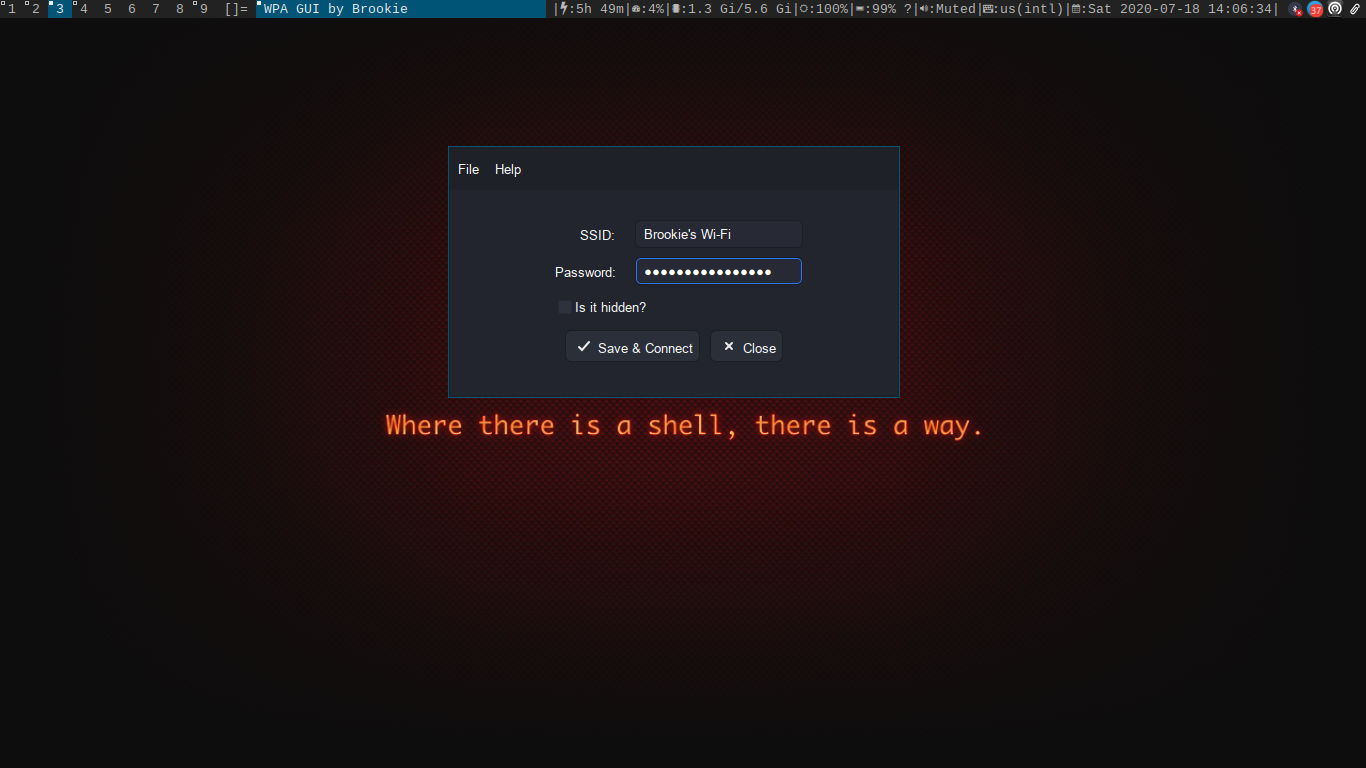
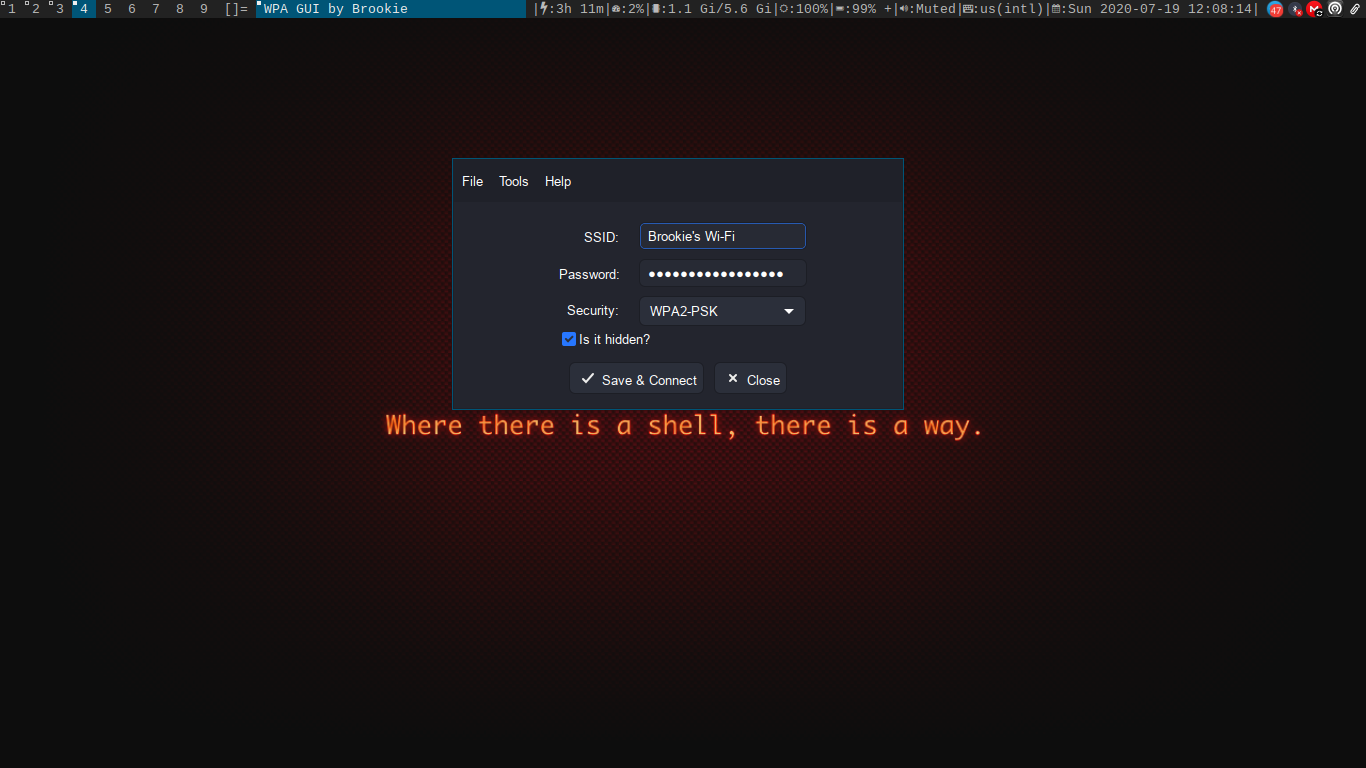
Update 1.2: Some features have been added.
Support to connect to WEP Wi-Fi networks has been added. An item to clear the fields has been added and some popup texts when you put the cursor on the elements. E.g on the SSID field have been added. And some changes in the code.

Changed region(s): [[0.3075, 0.1875, 0.6764, 0.5312], [0.369, 0.0, 0.9839, 0.0312], [0.0307, 0.0, 0.0922, 0.0312]]

diff --git a/src/save_and_connect.c b/src/save_and_connect.c
@@ -18,18 +18,41 @@
 
 #include "save_and_connect.h"
 
+static gchar *title, *message;
+
 static int
 check_wpa_supplicant(void)
 {
-        int state       = system("which wpa_supplicant > /dev/null 2>&1");
+        char *command   = "which wpa_supplicant > /dev/null 2>&1";
+        int state       = system(command);
         return state;
 }
 
 static int
 restart_service(void)
 {
-        int state       = system("/etc/init.d/wpa_supplicant restart > /dev/null 2>&1");
+        char *command   = "/etc/init.d/wpa_supplicant restart > /dev/null 2>&1";
+        int state       = system(command);
         return state;
+}
+
+static gboolean
+verify_protocol_and_password_length(const gchar *security,
+const gchar *password)
+{
+        gboolean is_there_an_error = FALSE;
+
+        if (security == NULL) {
+                title             = "Unselected protocol";
+                message           = "The security protocol has not been chosen.";
+                is_there_an_error = TRUE;
+        } else if (strlen(password) < 8 && strncmp(security, "Open", 4)) {
+                title             = "Short password";
+                message           = "The given password is so short.";
+                is_there_an_error = TRUE;
+        }
+
+        return is_there_an_error;
 }
 
 gint
@@ -37,12 +60,12 @@ save_and_connect(GtkWidget *parent)
 {
         GtkMessageType mtype    = GTK_MESSAGE_WARNING;
         GtkButtonsType btype    = GTK_BUTTONS_OK;
-        gchar *title, *message;
 
         if (check_wpa_supplicant()) {
                 title           = "Warning";
                 message         = "The WPA Supplicant binary has not been found in your system.";
-                return show_message(GTK_WINDOW(parent), mtype, btype, title, message);
+                return show_message(GTK_WINDOW(parent), mtype, btype,
+                                title, message);
         }
 
         const gchar *ssid       = gtk_entry_buffer_get_text(ssid_buffer);
@@ -50,68 +73,61 @@ save_and_connect(GtkWidget *parent)
         const gchar *security   = gtk_combo_box_text_get_active_text(GTK_COMBO_BOX_TEXT(security_combo));
         const gchar *wpa_file   = "/etc/wpa_supplicant/wpa_supplicant.conf";
         gchar scan_ssid;
-        gboolean is_there_an_error = FALSE;
 
-        if (security == NULL) {
-                title           = "Unselected protocol";
-                message         = "The security protocol has not been chosen.";
-                is_there_an_error = TRUE;
-        } else if (strlen(password) < 8 && strncmp(security, "Open", 4)) {
-                title           = "Short password";
-                message         = "The given password is so short.";
-                is_there_an_error = TRUE;
-        }
-
-        if (is_there_an_error) {
-                return show_message(GTK_WINDOW(parent), mtype, btype, title, message);
+        if (verify_protocol_and_password_length(security, password)) {
+                return show_message(GTK_WINDOW(parent), mtype, btype,
+                                title, message);
         }
 
         scan_ssid = gtk_toggle_button_get_active(GTK_TOGGLE_BUTTON(hidden_check)) ? '1' : '0';
 
         FILE *fp;
         gchar *hashed_pass;
+        size_t content_len = 254;
+        gchar *content = (gchar *) malloc(content_len + 1);
 
-        if (strncmp(security, "Open", 4)) {
+        if (strncmp(security, "WPA2-PSK", 8) == 0) {
                 size_t hashed_pass_len  = 80;
                 size_t command_len      = 16 + strlen(ssid) + 2 + strlen(password) + 26;
 
-                hashed_pass      = (gchar *) malloc(hashed_pass_len);
-                gchar *command   = (gchar *) malloc(command_len + 1);
+                hashed_pass     = (gchar *) malloc(hashed_pass_len);
+                gchar *command  = (gchar *) malloc(command_len + 1);
 
-                snprintf(command, command_len, "wpa_passphrase \"%s\" \"%s\" | grep psk | tail -n 1", ssid, password);
-                fp                = popen(command, "r");
+                snprintf(command, command_len,
+                        "wpa_passphrase \"%s\" \"%s\" | grep psk | tail -n 1",
+                        ssid, password);
 
+                fp              = popen(command, "r");
                 hashed_pass     = fgets(hashed_pass, hashed_pass_len, fp);
-                hashed_pass[hashed_pass_len - 2] = '\0'; /* Deleting the '\n' character. */
-
-                free(command);
-                pclose(fp);
-        }
-
-        size_t content_len = 254;
-        gchar *content         = (gchar *) malloc(content_len + 1);
-
-        if (strncmp(security, "WPA2-PSK", 7) == 0) {
 
                 snprintf(content, 1 + content_len, "\nnetwork={\n\
 \tssid=\"%s\"\n\
 \tscan_ssid=%c\n\
 %s\
 \tpriority=5\n\
-}", ssid, scan_ssid, hashed_pass);
+}\n", ssid, scan_ssid, hashed_pass);
 
-        free(hashed_pass);
+                free(hashed_pass);
+                free(command);
+                pclose(fp);
+        /* end if */
+        } else if (strncmp(security, "WEP", 3) == 0) {
 
-        /* endif */
+                snprintf(content, 1 + content_len, "\nnetwork={\n\
+\tssid=\"%s\"\n\
+\tscan_ssid=%c\n\
+\twep_key0=\"%s\"\n\
+\twep_tx_keyidx=0\n\
+\tpriority=5\n\
+}\n", ssid, scan_ssid, password);
+        /* end else if */
         } else {
-
                 snprintf(content, 1 + content_len, "\nnetwork={\n\
 \tssid=\"%s\"\n\
 \tscan_ssid=%c\n\
 \tkey_mgmt=NONE\n\
 \tpriority=5\n\
-}", ssid, scan_ssid);
-
+}\n", ssid, scan_ssid);
         /* end else */
         }
 
@@ -121,13 +137,15 @@ save_and_connect(GtkWidget *parent)
         fclose(fp);
         free(content);
 
-        mtype   = GTK_MESSAGE_QUESTION;
-        btype   = GTK_BUTTONS_YES_NO;
-        title   = "Congratulation";
-        message = "The network has been added successfully!\n\
+        mtype     = GTK_MESSAGE_QUESTION;
+        btype     = GTK_BUTTONS_YES_NO;
+        title     = "Congratulation";
+        message   = "The network has been added successfully!\n\
 Would you like to restart the WPA Supplicant service?";
 
-        gint response   = show_message(GTK_WINDOW(parent), mtype, btype, title, message);
+        gint response   = show_message(GTK_WINDOW(parent), mtype, btype,
+                        title, message);
+
         if (response == GTK_RESPONSE_YES) {
                 btype   = GTK_BUTTONS_OK;
                 int state       = restart_service();

diff --git a/src/clear_fields.c b/src/clear_fields.c
@@ -1,0 +1,59 @@
+/*
+* Copyright (C) 19aa <Lord Brookie>
+* This program is free software. You can redistribute it and/or
+* modify it under the terms of the General Public License
+* GNU as published by the Free Software Foundation,
+* either version 2 of said License or --according to its
+* choice-- of any later version.
+* This program is distributed in the hope that it will be
+* useful, but WITHOUT ANY WARRANTY, even without warranty
+* MERCANTIL implicit or without guaranteeing CONVENIENCE FOR A
+* PARTICULAR PURPOSE. For more details, see the License
+* GNU General Public.
+* You should have received a copy of the Public License
+* General along with this program. Otherwise, write
+* to the Free Software Foundation, Inc., at 675 Mass Ave,
+* Cambridge, MA 02139, USA.
+*/
+
+#include "clear_fields.h"
+
+gint
+clear_fields(GtkWidget *parent)
+{
+        int c                   = 0;
+        const gchar *ssid       = gtk_entry_buffer_get_text(ssid_buffer);
+        const gchar *password   = gtk_entry_buffer_get_text(password_buffer);
+        const gchar *security   = gtk_combo_box_text_get_active_text(GTK_COMBO_BOX_TEXT(security_combo));
+
+        if (strlen(ssid) > 0) {
+                gtk_entry_buffer_set_text(ssid_buffer, "", -1);
+                c++;
+        }
+
+        if (strlen(password) > 0) {
+                gtk_entry_buffer_set_text(password_buffer, "", -1);
+                c++;
+        }
+
+        if (security != NULL) {
+                gtk_combo_box_set_active(GTK_COMBO_BOX(security_combo), -1);
+                c++;
+        }
+
+        if (gtk_toggle_button_get_active(GTK_TOGGLE_BUTTON(hidden_check))) {
+                gtk_toggle_button_set_active(GTK_TOGGLE_BUTTON(hidden_check), FALSE);
+                c++;
+        }
+
+        if (c == 0) {
+                GtkMessageType mtype    = GTK_MESSAGE_WARNING;
+                GtkButtonsType btype    = GTK_BUTTONS_OK;
+                gchar *title            = "Warning";
+                gchar *message          = "There's nothing to do.";
+                return show_message(GTK_WINDOW(parent), mtype, btype,
+                        title, message);
+        }
+
+        return 0;
+}

diff --git a/src/main.c b/src/main.c
@@ -41,7 +41,7 @@ main(int argc, char *argv[])
 
         GtkBuilder *builder;
         GtkWidget *window;
-        GtkWidget *quit_item, *help_item, *about_item;
+        GtkWidget *quit_item, *clear_item, *help_item, *about_item;
         GtkWidget *ssid_entry, *password_entry;
         GtkWidget *save_button, *leave_button;
         gchar *ui       = "resources/ui.glade";
@@ -60,6 +60,7 @@ main(int argc, char *argv[])
         window          = GTK_WIDGET(gtk_builder_get_object(builder, "window"));
 
         quit_item       = GTK_WIDGET(gtk_builder_get_object(builder, "quit_item"));
+        clear_item      = GTK_WIDGET(gtk_builder_get_object(builder, "clear_fields_item"));
         about_item      = GTK_WIDGET(gtk_builder_get_object(builder, "about_item"));
         help_item       = GTK_WIDGET(gtk_builder_get_object(builder, "help_item"));
 
@@ -86,6 +87,8 @@ main(int argc, char *argv[])
         g_signal_connect(window, "destroy", G_CALLBACK(gtk_main_quit), NULL);
 
         g_signal_connect_swapped(quit_item, "activate", G_CALLBACK(leave), window);
+
+        g_signal_connect_swapped(clear_item, "activate", G_CALLBACK(clear_fields), window);
 
         g_signal_connect_swapped(about_item, "activate", G_CALLBACK(get_info), window);
         g_signal_connect_swapped(help_item, "activate", G_CALLBACK(get_help), window);

diff --git a/includes/clear_fields.h b/includes/clear_fields.h
@@ -16,25 +16,24 @@
 * Cambridge, MA 02139, USA.
 */
 
-#include "get_info.h"
+#ifndef __GTK_H__
+#include <gtk/gtk.h>
+#endif
 
-gint
-get_info(GtkWidget *parent)
-{
-        GtkMessageType mtype    = GTK_MESSAGE_INFO;
-        GtkButtonsType btype    = GTK_BUTTONS_OK;
-        gchar *title            = "About";
+#ifndef _STRING_H
+#include <string.h>
+#endif
 
-        gchar *message          = "This is a little tool to save and connect \
-to new Wi-Fi connections.\n\
-This tool uses WPA Supplicant, so you need to have installed it.\n\
-If you want to know more about this project, please don't forget\n\
-to visit its website.\n\n\
-Name: WPA GUI by Brookie\n\
-Version: 1.2\n\
-License: GPL v2\n\
-Author(s): Lord Brookie\n\
-Website: https://github.com/brookiestein/wpa_gui";
+#ifndef SHOW_MESSAGE_H
+#include "show_message.h"
+#endif
 
-        return show_message(GTK_WINDOW(parent), mtype, btype, title, message);
-}
+#ifndef CLEAR_FIELDS_H
+#define CLEAR_FIELDS_H 1
+#endif
+
+/* Defined on main.h */
+extern GtkEntryBuffer *ssid_buffer, *password_buffer;
+extern GtkWidget *hidden_check, *security_combo;
+
+gint clear_fields(GtkWidget *parent);

diff --git a/src/get_help.c b/src/get_help.c
@@ -27,8 +27,9 @@ get_help(GtkWidget *parent)
 
         gchar *message          = "Using this tool is very simple! You only need to input your\n\
 Wi-Fi network's SSID in the field called \"SSID\" and the same process for the password. \
-If your Wi-Fi network is hidden, you need\n\
-to inform to WPA Supplicant marking the check box below the last field.\n\n\
+Later choose the security protocol of you Wi-Fi\n\
+network. If your Wi-Fi network is hidden, you need\n\
+to inform to WPA Supplicant marking the check box below the security combo.\n\n\
 Also, you may want to restart the WPA Supplicant service.\n\
 So WPA Supplicant will read the new configuration that includes the newest Wi-Fi network.";
 

diff --git a/includes/main.h b/includes/main.h
@@ -22,6 +22,7 @@
 
 #include "show_message.h"
 #include "leave.h"
+#include "clear_fields.h"
 #include "get_info.h"
 #include "get_help.h"
 #include "save_and_connect.h"
